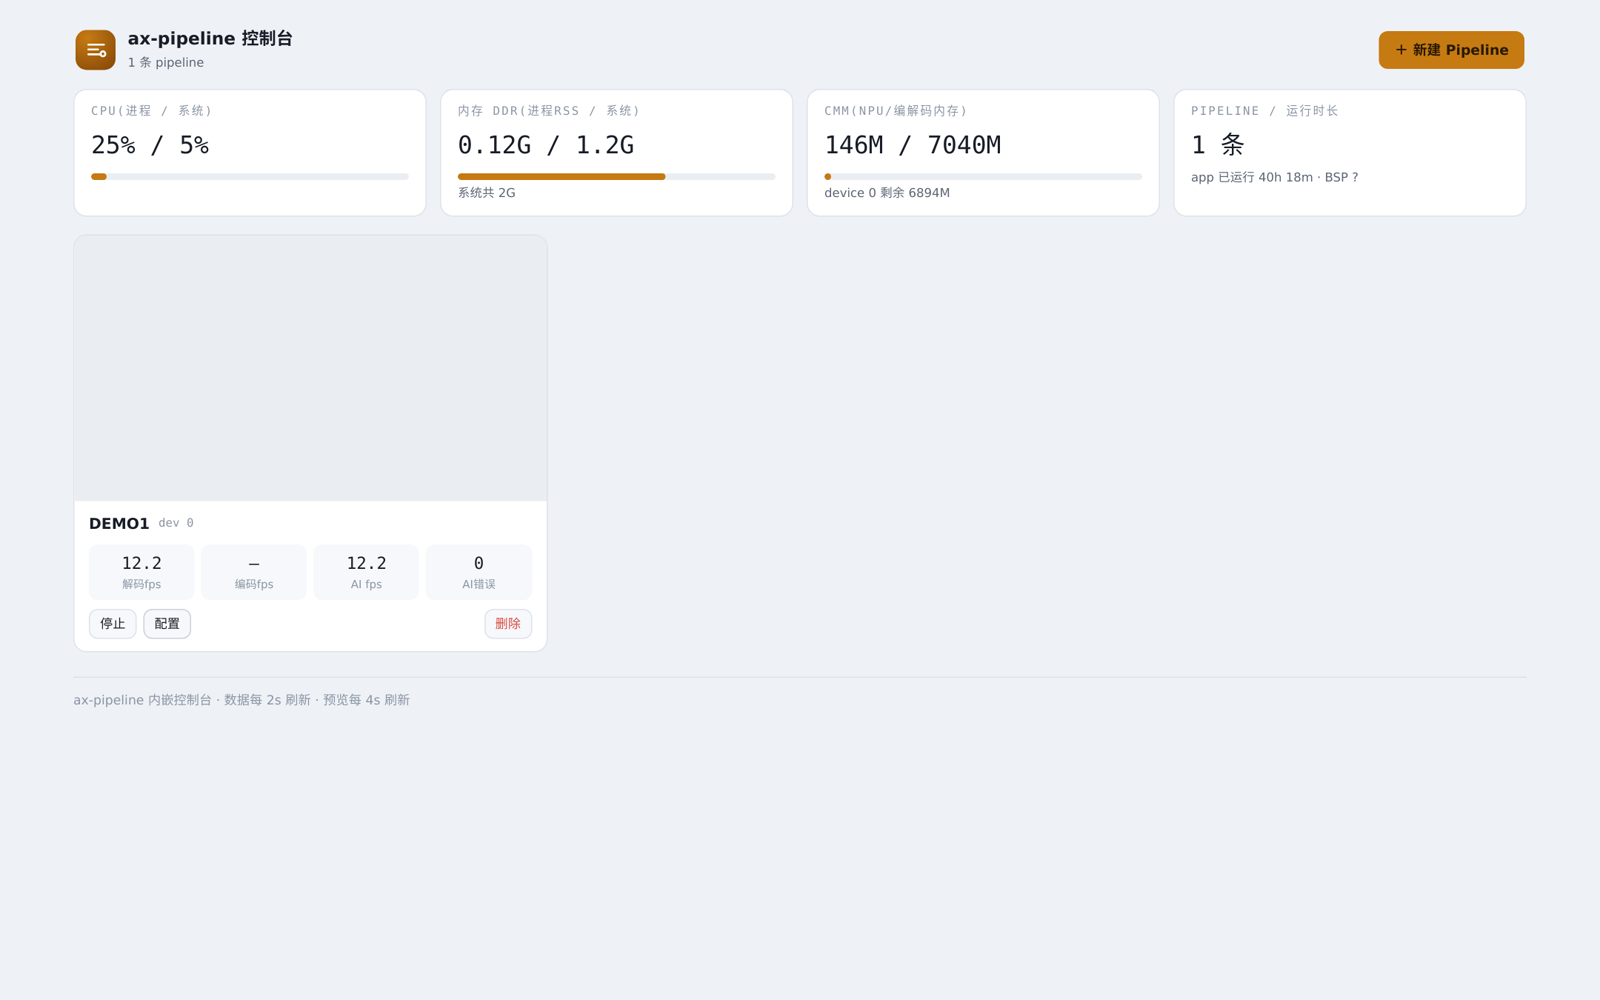
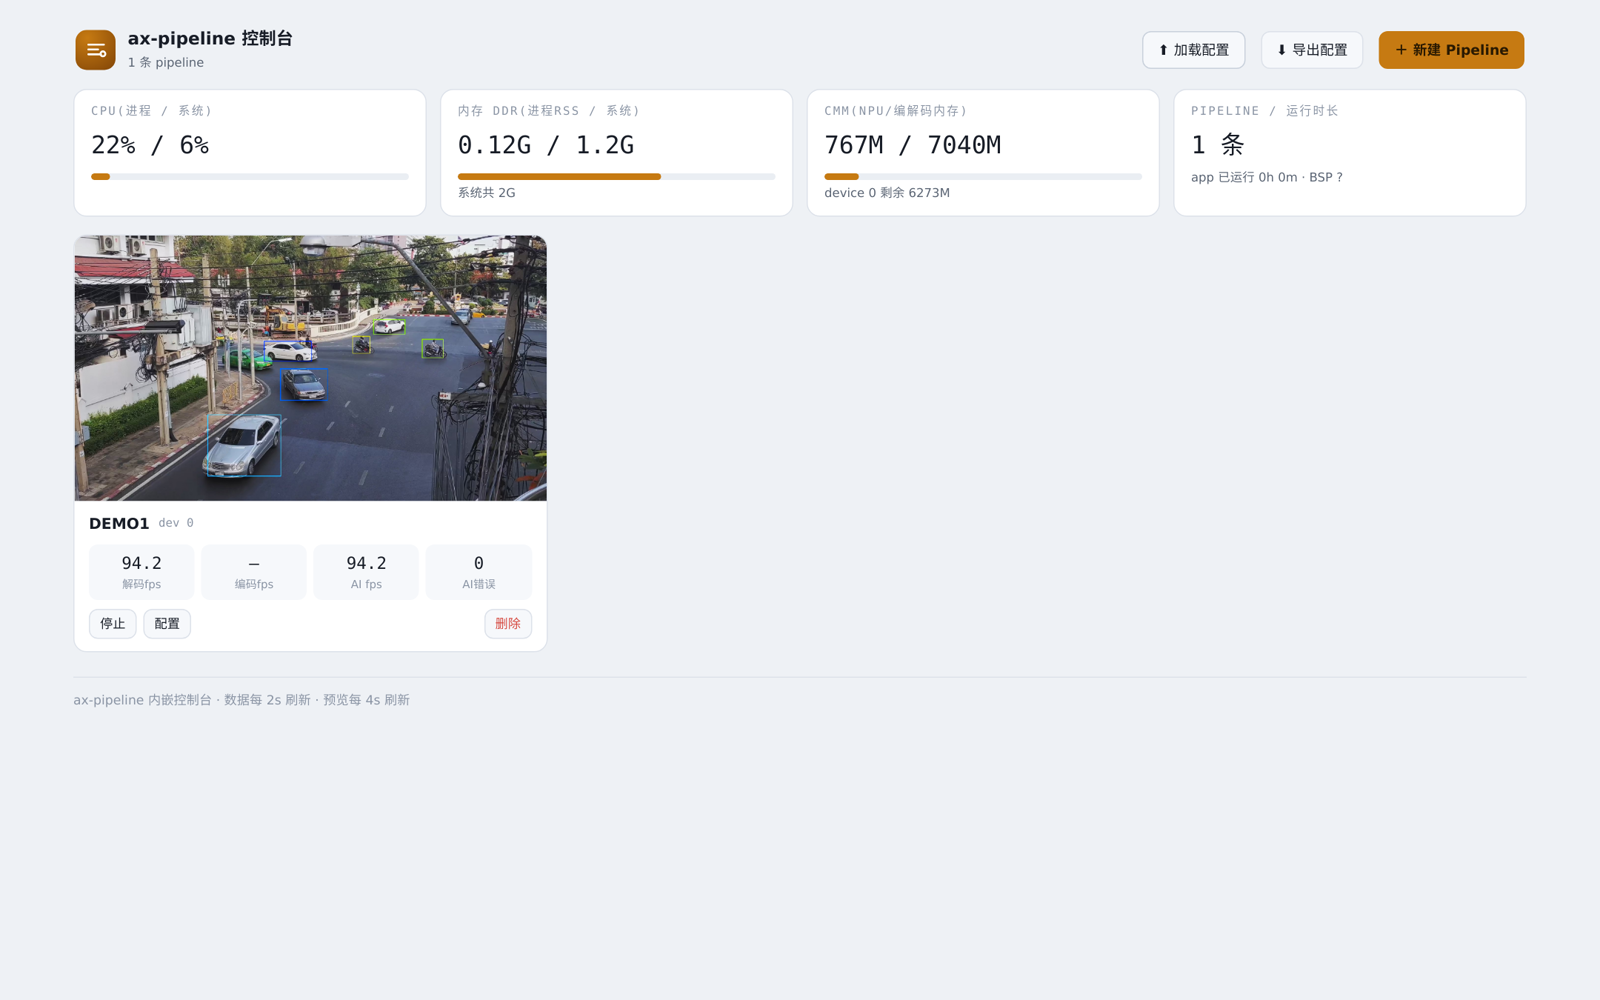
feat(webui): export/import full config from the console
The console's runtime edits never persisted - users had to hand-copy
JSON into the -c file. Now the header has two buttons: Export downloads
the complete running config (system + every pipeline, exact -c file
format) via GET /api/v1/config/export, so the next boot can use it
directly; Import (POST /api/v1/config/import) applies a previously
exported file live - same-name pipelines are replaced, new ones added,
the system section is boot-only and ignored at runtime. Verified
round-trip on device: export 8ch -> delete all -> import -> all 8
running again.

Docs guide re-shot with the thailand intersection clip (much denser
detections than the aerial one) and now covers both persistence paths.

diff --git a/src/app/webui/index.html b/src/app/webui/index.html
@@ -88,7 +88,10 @@ footer{margin-top:22px;padding-top:12px;border-top:1px solid var(--line);font-si
    <div class="logo"><svg viewBox="0 0 24 24" fill="none" stroke="#fff" stroke-width="2" stroke-linecap="round"><path d="M4 7h16M4 12h10M4 17h13"/><circle cx="19" cy="16.5" r="2.5"/></svg></div>
    <div><h1>ax-pipeline 控制台</h1><p class="sub" id="sub">加载中…</p></div>
   </div>
-  <button class="btn primary" onclick="openNew()">＋ 新建 Pipeline</button>
+  <input type="file" id="imp-file" accept=".json,application/json" style="display:none" onchange="importFile(event)">
+  <button class="btn" onclick="$('imp-file').click()" title="选择之前导出的配置 JSON:同名 pipeline 替换、新名添加,立即生效">⬆ 加载配置</button>
+  <button class="btn" onclick="exportCfg()" title="导出当前整套配置为 JSON,可直接作为 -c 启动配置">⬇ 导出配置</button>
+ <button class="btn primary" onclick="openNew()">＋ 新建 Pipeline</button>
  </header>
 
  <section class="sys">
@@ -147,6 +150,28 @@ const TOKEN=new URLSearchParams(location.search).get("token")||"";
 const H=TOKEN?{"Authorization":"Bearer "+TOKEN}:{};
 const $=id=>document.getElementById(id);
 function toast(m){const t=$("toast");t.textContent=m;t.style.display="block";clearTimeout(t._h);t._h=setTimeout(()=>t.style.display="none",2600);}
+async function importFile(ev){
+ const f=ev.target.files[0]; if(!f)return; ev.target.value="";
+ try{
+  const cfg=JSON.parse(await f.text());
+  const r=await api("/api/v1/config/import",{method:"POST",
+    headers:{"Content-Type":"application/json"},body:JSON.stringify(cfg)});
+  let m="已加载: 新增 "+r.added+" 路, 替换 "+r.replaced+" 路";
+  if(r.failed&&r.failed.length)m+=", 失败 "+r.failed.length+" 路("+r.failed[0].name+": "+r.failed[0].error+")";
+  toast(m); refresh(true);
+ }catch(e){toast("加载失败: "+e.message);}
+}
+async function exportCfg(){
+ try{
+  const r=await fetch("/api/v1/config/export",{headers:H});
+  if(!r.ok)throw new Error("HTTP "+r.status);
+  const t=await r.text();
+  const a=document.createElement("a");
+  a.href=URL.createObjectURL(new Blob([t],{type:"application/json"}));
+  a.download="ax_pipeline_config.json";a.click();
+  setTimeout(()=>URL.revokeObjectURL(a.href),3000);
+ }catch(e){toast("导出失败: "+e.message);}
+}
 async function api(path,opt={}){opt.headers=Object.assign({},H,opt.headers||{});
  const r=await fetch(path,opt);
  if(!r.ok){let m="";try{m=(await r.json()).error||r.statusText}catch(e){m=r.statusText}throw new Error(m||("HTTP "+r.status));}

diff --git a/src/app/http_api_server.cpp b/src/app/http_api_server.cpp
@@ -10,6 +10,7 @@
 #include <fstream>
 #include <iostream>
 #include <mutex>
+#include <set>
 #include <sstream>
 #include <thread>
 #include <dirent.h>
@@ -102,6 +103,57 @@ bool AuthOk(const httplib::Request& req, const std::string& token) {
     if (auth.rfind(prefix, 0) != 0) return false;
     const std::string got = auth.substr(prefix.size());
     return got == token;
+}
+
+// 单路 pipeline 的运行配置 → config 文件格式 JSON(GET 单路 与 /config/export 共用)
+json PipelineConfigJson(const ConfigLoader::PipelineCfg& cfg) {
+    json out;
+    out["name"] = cfg.name;
+    out["device_id"] = cfg.device_id;
+    out["uri"] = cfg.sdk.input.uri;
+    out["realtime_playback"] = cfg.sdk.input.realtime_playback;
+    out["loop_playback"] = cfg.sdk.input.loop_playback;
+    out["npu_max_fps"] = cfg.npu_max_fps;
+    out["log_every_n_frames"] = cfg.log_every_n_frames;
+
+    json npu;
+    npu["enable"] = cfg.npu.enable;
+    npu["enable_osd"] = cfg.npu.enable_osd;
+    npu["enable_tracking"] = cfg.npu.enable_tracking;
+    npu["track_buffer"] = cfg.npu.track_buffer;
+    npu["kalman_smooth"] = cfg.npu.kalman_smooth;
+    npu["ax_plugin_path"] = cfg.npu.ax_plugin_path;
+    npu["ax_plugin_isolation"] = cfg.npu.ax_plugin_isolation;
+    if (!cfg.npu.ax_plugin_init_json.empty()) {
+        try {
+            npu["ax_plugin_init_info"] = json::parse(cfg.npu.ax_plugin_init_json);
+        } catch (...) {
+            npu["ax_plugin_init_info"] = json::object();
+        }
+    }
+    out["npu"] = std::move(npu);
+
+    json outputs = json::array();
+    for (const auto& o : cfg.sdk.outputs) {
+        json oo;
+        oo["codec"] = (o.codec == axvsdk::codec::VideoCodecType::kH265) ? "h265" : "h264";
+        oo["width"] = o.width;
+        oo["height"] = o.height;
+        oo["frame_rate"] = o.frame_rate;
+        oo["bitrate_kbps"] = o.bitrate_kbps;
+        oo["gop"] = o.gop;
+        oo["input_queue_depth"] = o.input_queue_depth;
+        oo["overflow_policy"] = (o.overflow_policy == axvsdk::codec::QueueOverflowPolicy::kDropNewest)
+                                    ? "drop_newest"
+                                : (o.overflow_policy == axvsdk::codec::QueueOverflowPolicy::kBlock) ? "block"
+                                                                                                  : "drop_oldest";
+        json uris = json::array();
+        for (const auto& u : o.uris) uris.push_back(u);
+        oo["uris"] = std::move(uris);
+        outputs.push_back(std::move(oo));
+    }
+    out["outputs"] = std::move(outputs);
+    return out;
 }
 
 json SnapshotToJson(const PipelineSnapshot& s) {
@@ -357,6 +409,81 @@ bool HttpApiServer::Start(const HttpServerOptions& opt, std::string* error) {
         ReplyJson(res, 200, json{{"ok", true}, {"plugins", cache}});
     });
 
+    // 导出当前整套运行配置(system + 全部 pipelines),可直接存成 -c 启动用的配置文件
+    svr.Get("/api/v1/config/export", [&](const httplib::Request& req, httplib::Response& res) {
+        if (!AuthOk(req, impl_->opt.bearer_token)) {
+            ReplyError(res, 401, "unauthorized");
+            return;
+        }
+        json j;
+        try {
+            j["system"] = json::parse(impl_->opt.system_config_json);
+        } catch (...) {
+            j["system"] = json::object();
+        }
+        json arr = json::array();
+        for (const auto& snap : service_->ListSnapshots()) {
+            ConfigLoader::PipelineCfg cfg{};
+            std::string err;
+            if (service_->GetPipelineConfig(snap.name, &cfg, &err)) {
+                arr.push_back(PipelineConfigJson(cfg));
+            }
+        }
+        j["pipelines"] = std::move(arr);
+        res.status = 200;
+        res.set_header("Cache-Control", "no-store");
+        res.set_header("Content-Disposition", "attachment; filename=ax_pipeline_config.json");
+        res.set_content(j.dump(2) + "\n", "application/json; charset=utf-8");
+    });
+
+    // 加载(导入)整套配置:pipelines[] 逐路应用——同名替换、新名添加,立即生效。
+    // system 段运行时不可改(vdec pool 等启动时已定),仅在 -c 启动时生效,这里忽略。
+    svr.Post("/api/v1/config/import", [&](const httplib::Request& req, httplib::Response& res) {
+        if (!AuthOk(req, impl_->opt.bearer_token)) {
+            ReplyError(res, 401, "unauthorized");
+            return;
+        }
+        json body;
+        try {
+            body = json::parse(req.body);
+        } catch (const std::exception& e) {
+            ReplyError(res, 400, std::string("json parse failed: ") + e.what());
+            return;
+        }
+        if (!body.contains("pipelines") || !body["pipelines"].is_array()) {
+            ReplyError(res, 400, "missing pipelines[]");
+            return;
+        }
+        std::set<std::string> existing;
+        for (const auto& snap : service_->ListSnapshots()) existing.insert(snap.name);
+        int added = 0, replaced = 0;
+        json failed = json::array();
+        std::size_t idx = 0;
+        for (const auto& pj : body["pipelines"]) {
+            ConfigLoader::PipelineCfg cfg{};
+            std::string err;
+            if (!ConfigLoader::LoadPipelineFromJson(pj, idx++, &cfg, &err)) {
+                failed.push_back(json{{"name", pj.value("name", "?")}, {"error", err}});
+                continue;
+            }
+            if (cfg.device_id < 0 && impl_->opt.default_device_id >= 0) {
+                cfg.device_id = impl_->opt.default_device_id;
+                cfg.sdk.device_id = impl_->opt.default_device_id;
+            }
+            const bool exists = existing.count(cfg.name) != 0;
+            const bool ok = exists ? service_->ReplacePipeline(cfg, true, &err)
+                                   : service_->AddPipeline(cfg, true, &err);
+            if (ok) {
+                exists ? ++replaced : ++added;
+                existing.insert(cfg.name);
+            } else {
+                failed.push_back(json{{"name", cfg.name}, {"error", err}});
+            }
+        }
+        ReplyJson(res, 200, json{{"ok", true}, {"added", added}, {"replaced", replaced},
+                                 {"failed", std::move(failed)}});
+    });
+
     svr.Get("/api/v1/pipelines", [&](const httplib::Request& req, httplib::Response& res) {
         if (!AuthOk(req, impl_->opt.bearer_token)) {
             ReplyError(res, 401, "unauthorized");
@@ -385,54 +512,7 @@ bool HttpApiServer::Start(const HttpServerOptions& opt, std::string* error) {
             return;
         }
 
-        json out;
-        out["name"] = cfg.name;
-        out["device_id"] = cfg.device_id;
-        out["uri"] = cfg.sdk.input.uri;
-        out["realtime_playback"] = cfg.sdk.input.realtime_playback;
-        out["loop_playback"] = cfg.sdk.input.loop_playback;
-        out["npu_max_fps"] = cfg.npu_max_fps;
-        out["log_every_n_frames"] = cfg.log_every_n_frames;
-
-        json npu;
-        npu["enable"] = cfg.npu.enable;
-        npu["enable_osd"] = cfg.npu.enable_osd;
-        npu["enable_tracking"] = cfg.npu.enable_tracking;
-        npu["track_buffer"] = cfg.npu.track_buffer;
-        npu["kalman_smooth"] = cfg.npu.kalman_smooth;
-        npu["ax_plugin_path"] = cfg.npu.ax_plugin_path;
-        npu["ax_plugin_isolation"] = cfg.npu.ax_plugin_isolation;
-        if (!cfg.npu.ax_plugin_init_json.empty()) {
-            try {
-                npu["ax_plugin_init_info"] = json::parse(cfg.npu.ax_plugin_init_json);
-            } catch (...) {
-                npu["ax_plugin_init_info"] = json::object();
-            }
-        }
-        out["npu"] = std::move(npu);
-
-        json outputs = json::array();
-        for (const auto& o : cfg.sdk.outputs) {
-            json oo;
-            oo["codec"] = (o.codec == axvsdk::codec::VideoCodecType::kH265) ? "h265" : "h264";
-            oo["width"] = o.width;
-            oo["height"] = o.height;
-            oo["frame_rate"] = o.frame_rate;
-            oo["bitrate_kbps"] = o.bitrate_kbps;
-            oo["gop"] = o.gop;
-            oo["input_queue_depth"] = o.input_queue_depth;
-            oo["overflow_policy"] = (o.overflow_policy == axvsdk::codec::QueueOverflowPolicy::kDropNewest)
-                                        ? "drop_newest"
-                                    : (o.overflow_policy == axvsdk::codec::QueueOverflowPolicy::kBlock) ? "block"
-                                                                                                      : "drop_oldest";
-            json uris = json::array();
-            for (const auto& u : o.uris) uris.push_back(u);
-            oo["uris"] = std::move(uris);
-            outputs.push_back(std::move(oo));
-        }
-        out["outputs"] = std::move(outputs);
-
-        ReplyJson(res, 200, json{{"ok", true}, {"pipeline", std::move(out)}});
+        ReplyJson(res, 200, json{{"ok", true}, {"pipeline", PipelineConfigJson(cfg)}});
     });
 
     svr.Post("/api/v1/pipelines", [&](const httplib::Request& req, httplib::Response& res) {

diff --git a/include/config_loader.hpp b/include/config_loader.hpp
@@ -58,6 +58,19 @@ public:
         std::vector<PipelineCfg> pipelines;
     };
 
+    // system 段 → config 文件格式 JSON 文本(网页「导出配置」用,字段与 Load 的解析一一对应)
+    static std::string DumpSystemJsonText(const AppCfg& cfg) {
+        nlohmann::json s;
+        s["device_id"] = cfg.system.device_id;
+        s["enable_vdec"] = cfg.system.enable_vdec;
+        s["enable_venc"] = cfg.system.enable_venc;
+        s["enable_ivps"] = cfg.system.enable_ivps;
+        s["vdec_max_group_count"] = cfg.system.vdec_max_group_count;
+        s["venc_total_thread_num"] = cfg.system.venc_total_thread_num;
+        if (!cfg.vnpu_mode.empty()) s["vnpu_mode"] = cfg.vnpu_mode;
+        return s.dump();
+    }
+
     // Parse a single pipeline object (same schema as pipelines[] entries in the config file).
     // For HTTP/API usage: relative paths are kept as-is; callers may resolve them if needed.
     static bool LoadPipelineFromJsonText(const std::string& text, PipelineCfg* out, std::string* error) {

diff --git a/src/main.cpp b/src/main.cpp
@@ -153,6 +153,7 @@ int main(int argc, char** argv) {
         hopts.bearer_token = parser.get<std::string>("http_token");
         hopts.webroot = parser.get<std::string>("http_webroot");
         hopts.default_device_id = cfg.system.device_id;
+        hopts.system_config_json = axpipeline::ConfigLoader::DumpSystemJsonText(cfg);
         if (!http.Start(hopts, &err)) {
             std::cerr << "HTTP server start failed: " << err << "\n";
             service.StopAll();

diff --git a/include/app/http_api_server.hpp b/include/app/http_api_server.hpp
@@ -18,6 +18,8 @@ struct HttpServerOptions {
     // system.device_id:HTTP 动态添加/修改的 pipeline 未显式写 device_id 时继承它,
     // 与 config 文件加载路径的行为一致(否则插件落到卡0,多卡下跨卡读数据、检测恒为0)。
     int default_device_id{-1};
+    // 启动配置的 system 段(JSON 文本),/api/v1/config/export 原样带出
+    std::string system_config_json{"{}"};
 };
 
 class HttpApiServer {

diff --git a/docs/webui.md b/docs/webui.md
@@ -69,7 +69,14 @@ const char* ax_plugin_get_config_schema(void);
 
 ![编辑配置](images/webui/07_edit.png)
 
-> 注意:网页上的增删改都作用于**运行中的 app**,不会写回启动用的 `-c` 配置文件。重启 app 后恢复为配置文件内容;想固化,把弹窗底部的 JSON 抄进配置文件的 `pipelines[]` 即可(两者格式一致)。
+## 导出 / 加载配置
+
+网页上的增删改都作用于**运行中的 app**,不会写回启动用的 `-c` 配置文件。在网页上配好一套后,点头部的「**⬇ 导出配置**」即可把当前整套配置(`system` + 全部 `pipelines`)下载为一个完整 JSON,之后两种用法:
+
+- **命令行直接启动**:`./ax_pipeline_app -c ax_pipeline_config.json -t 0 --http_port 8901`——导出文件就是标准配置格式,开机即恢复整套 pipeline;
+- **网页上加载**:点「**⬆ 加载配置**」选择该文件,逐路立即生效——同名 pipeline 替换、新名字添加(`system` 段只在 `-c` 启动时生效,运行时加载会忽略它)。
+
+对应的 HTTP 接口:`GET /api/v1/config/export` / `POST /api/v1/config/import`,可用于脚本化备份与批量下发。
 
 ## 插件 so 的放置
 
